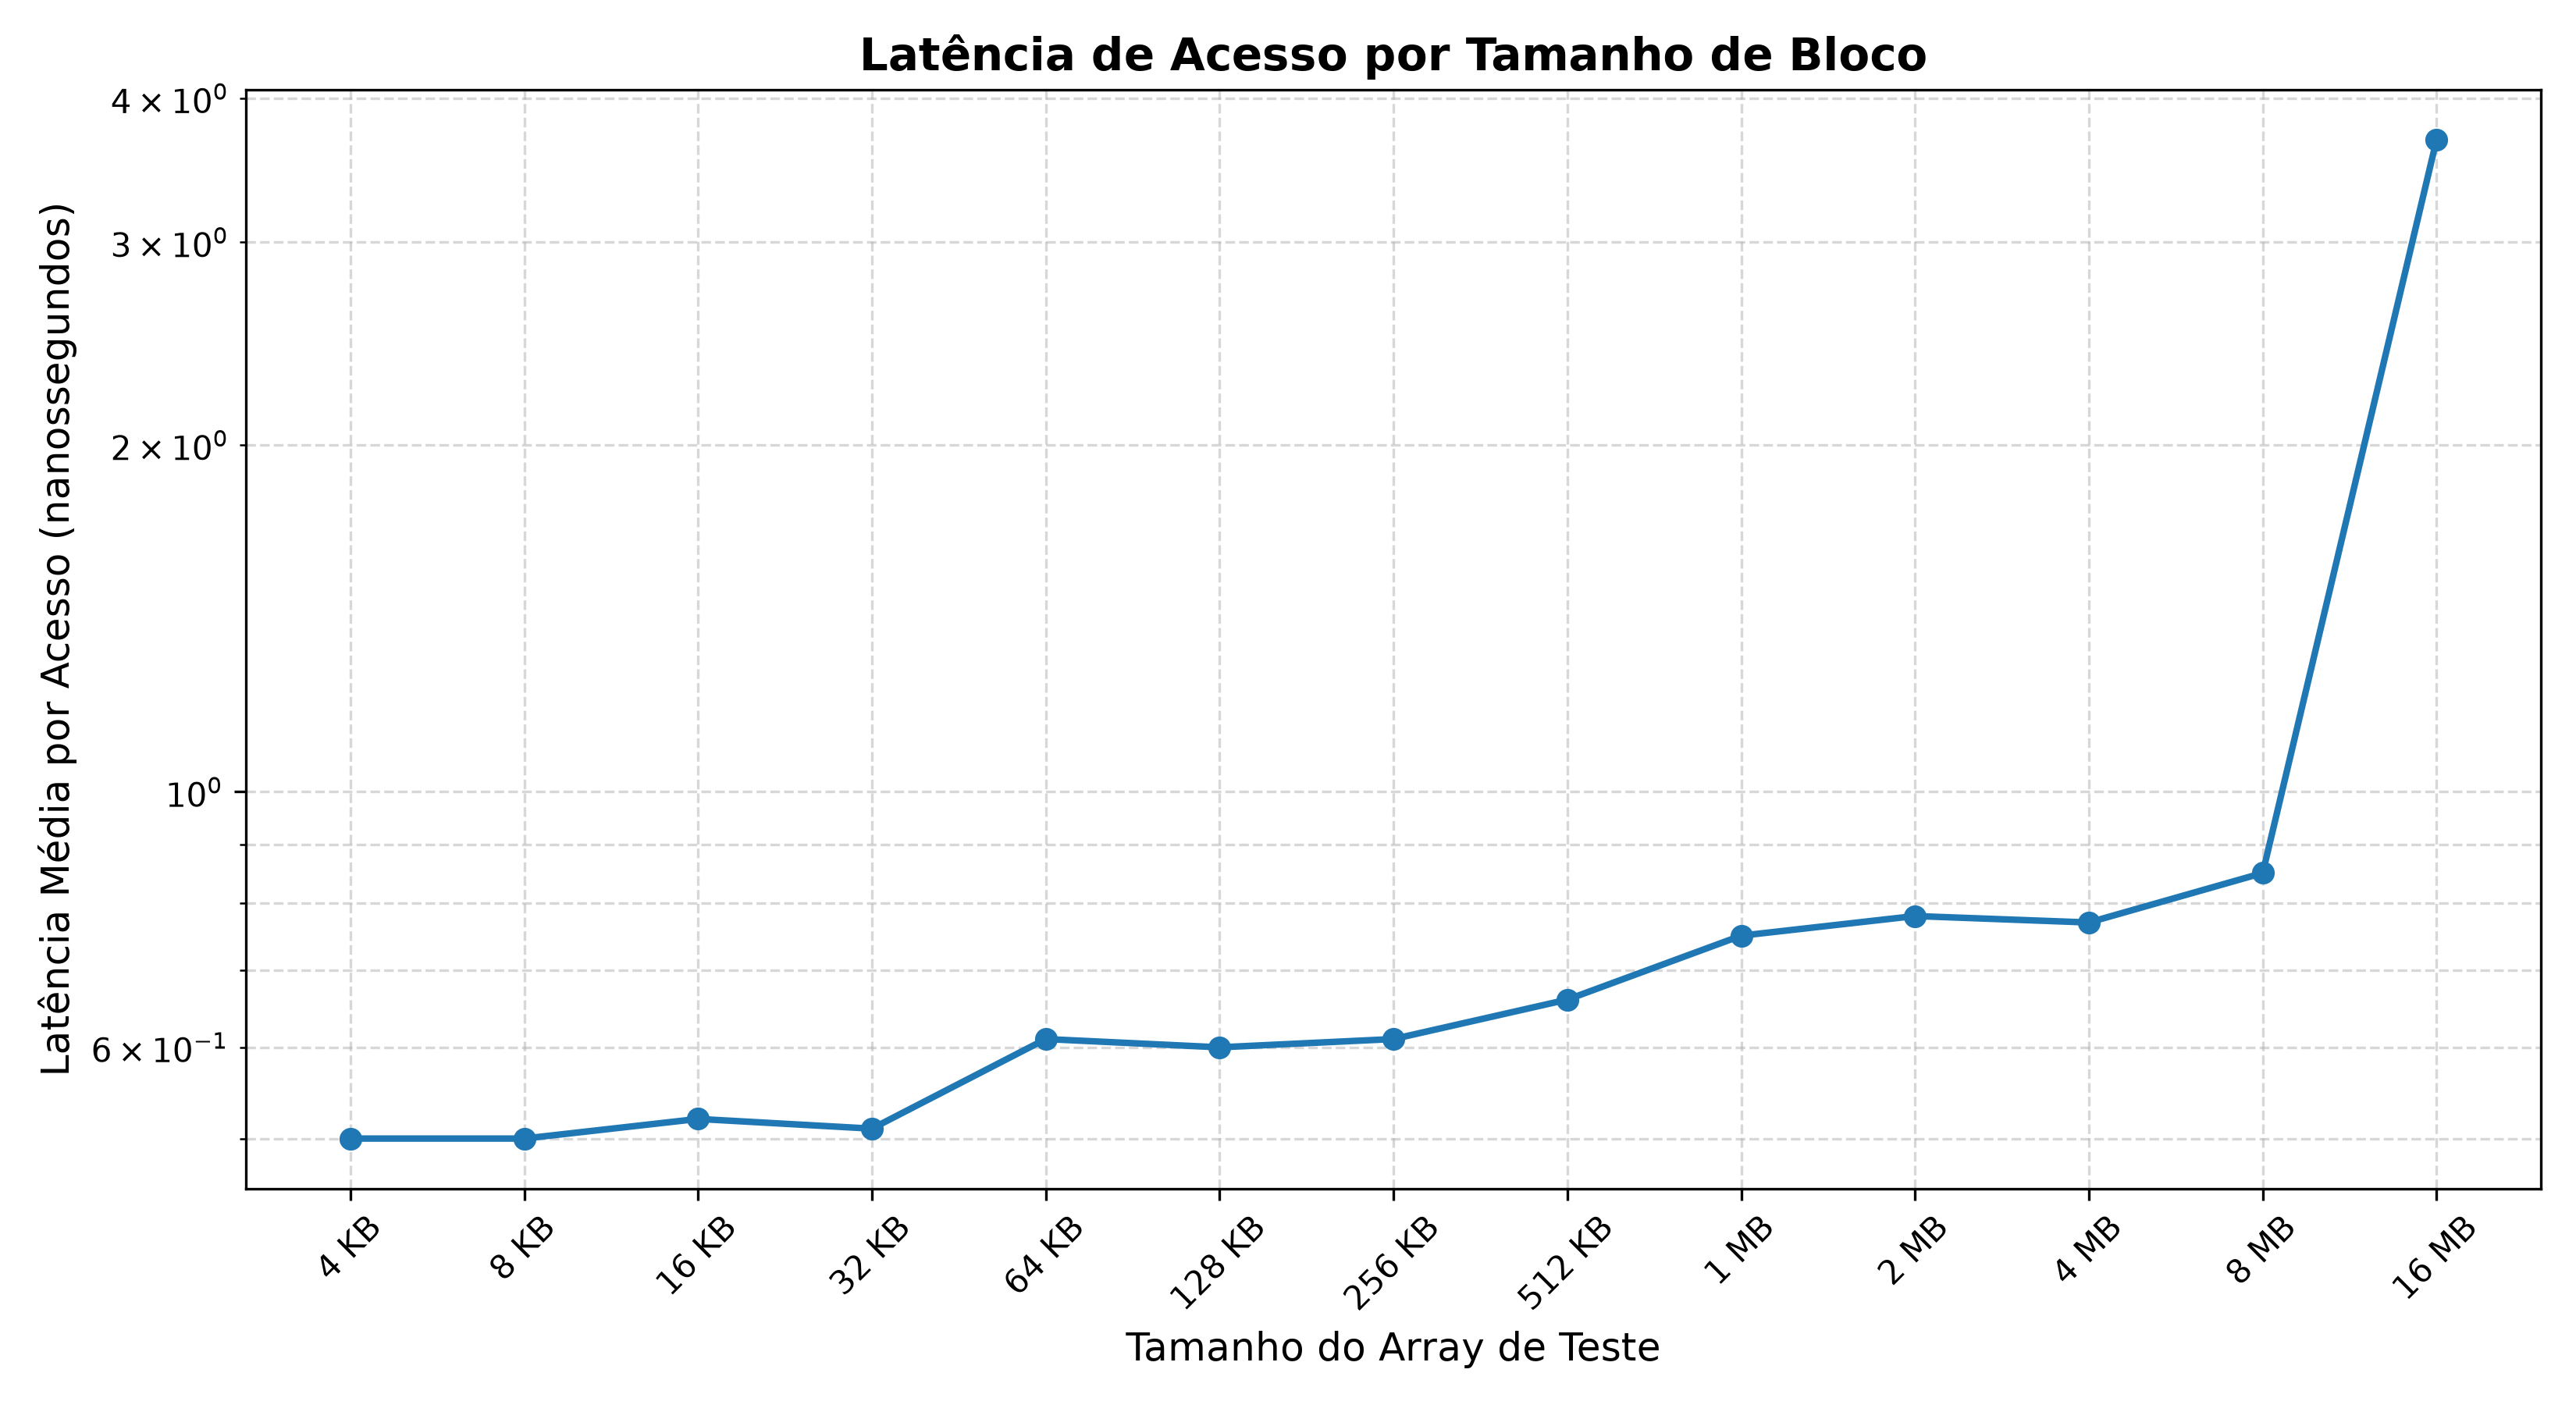
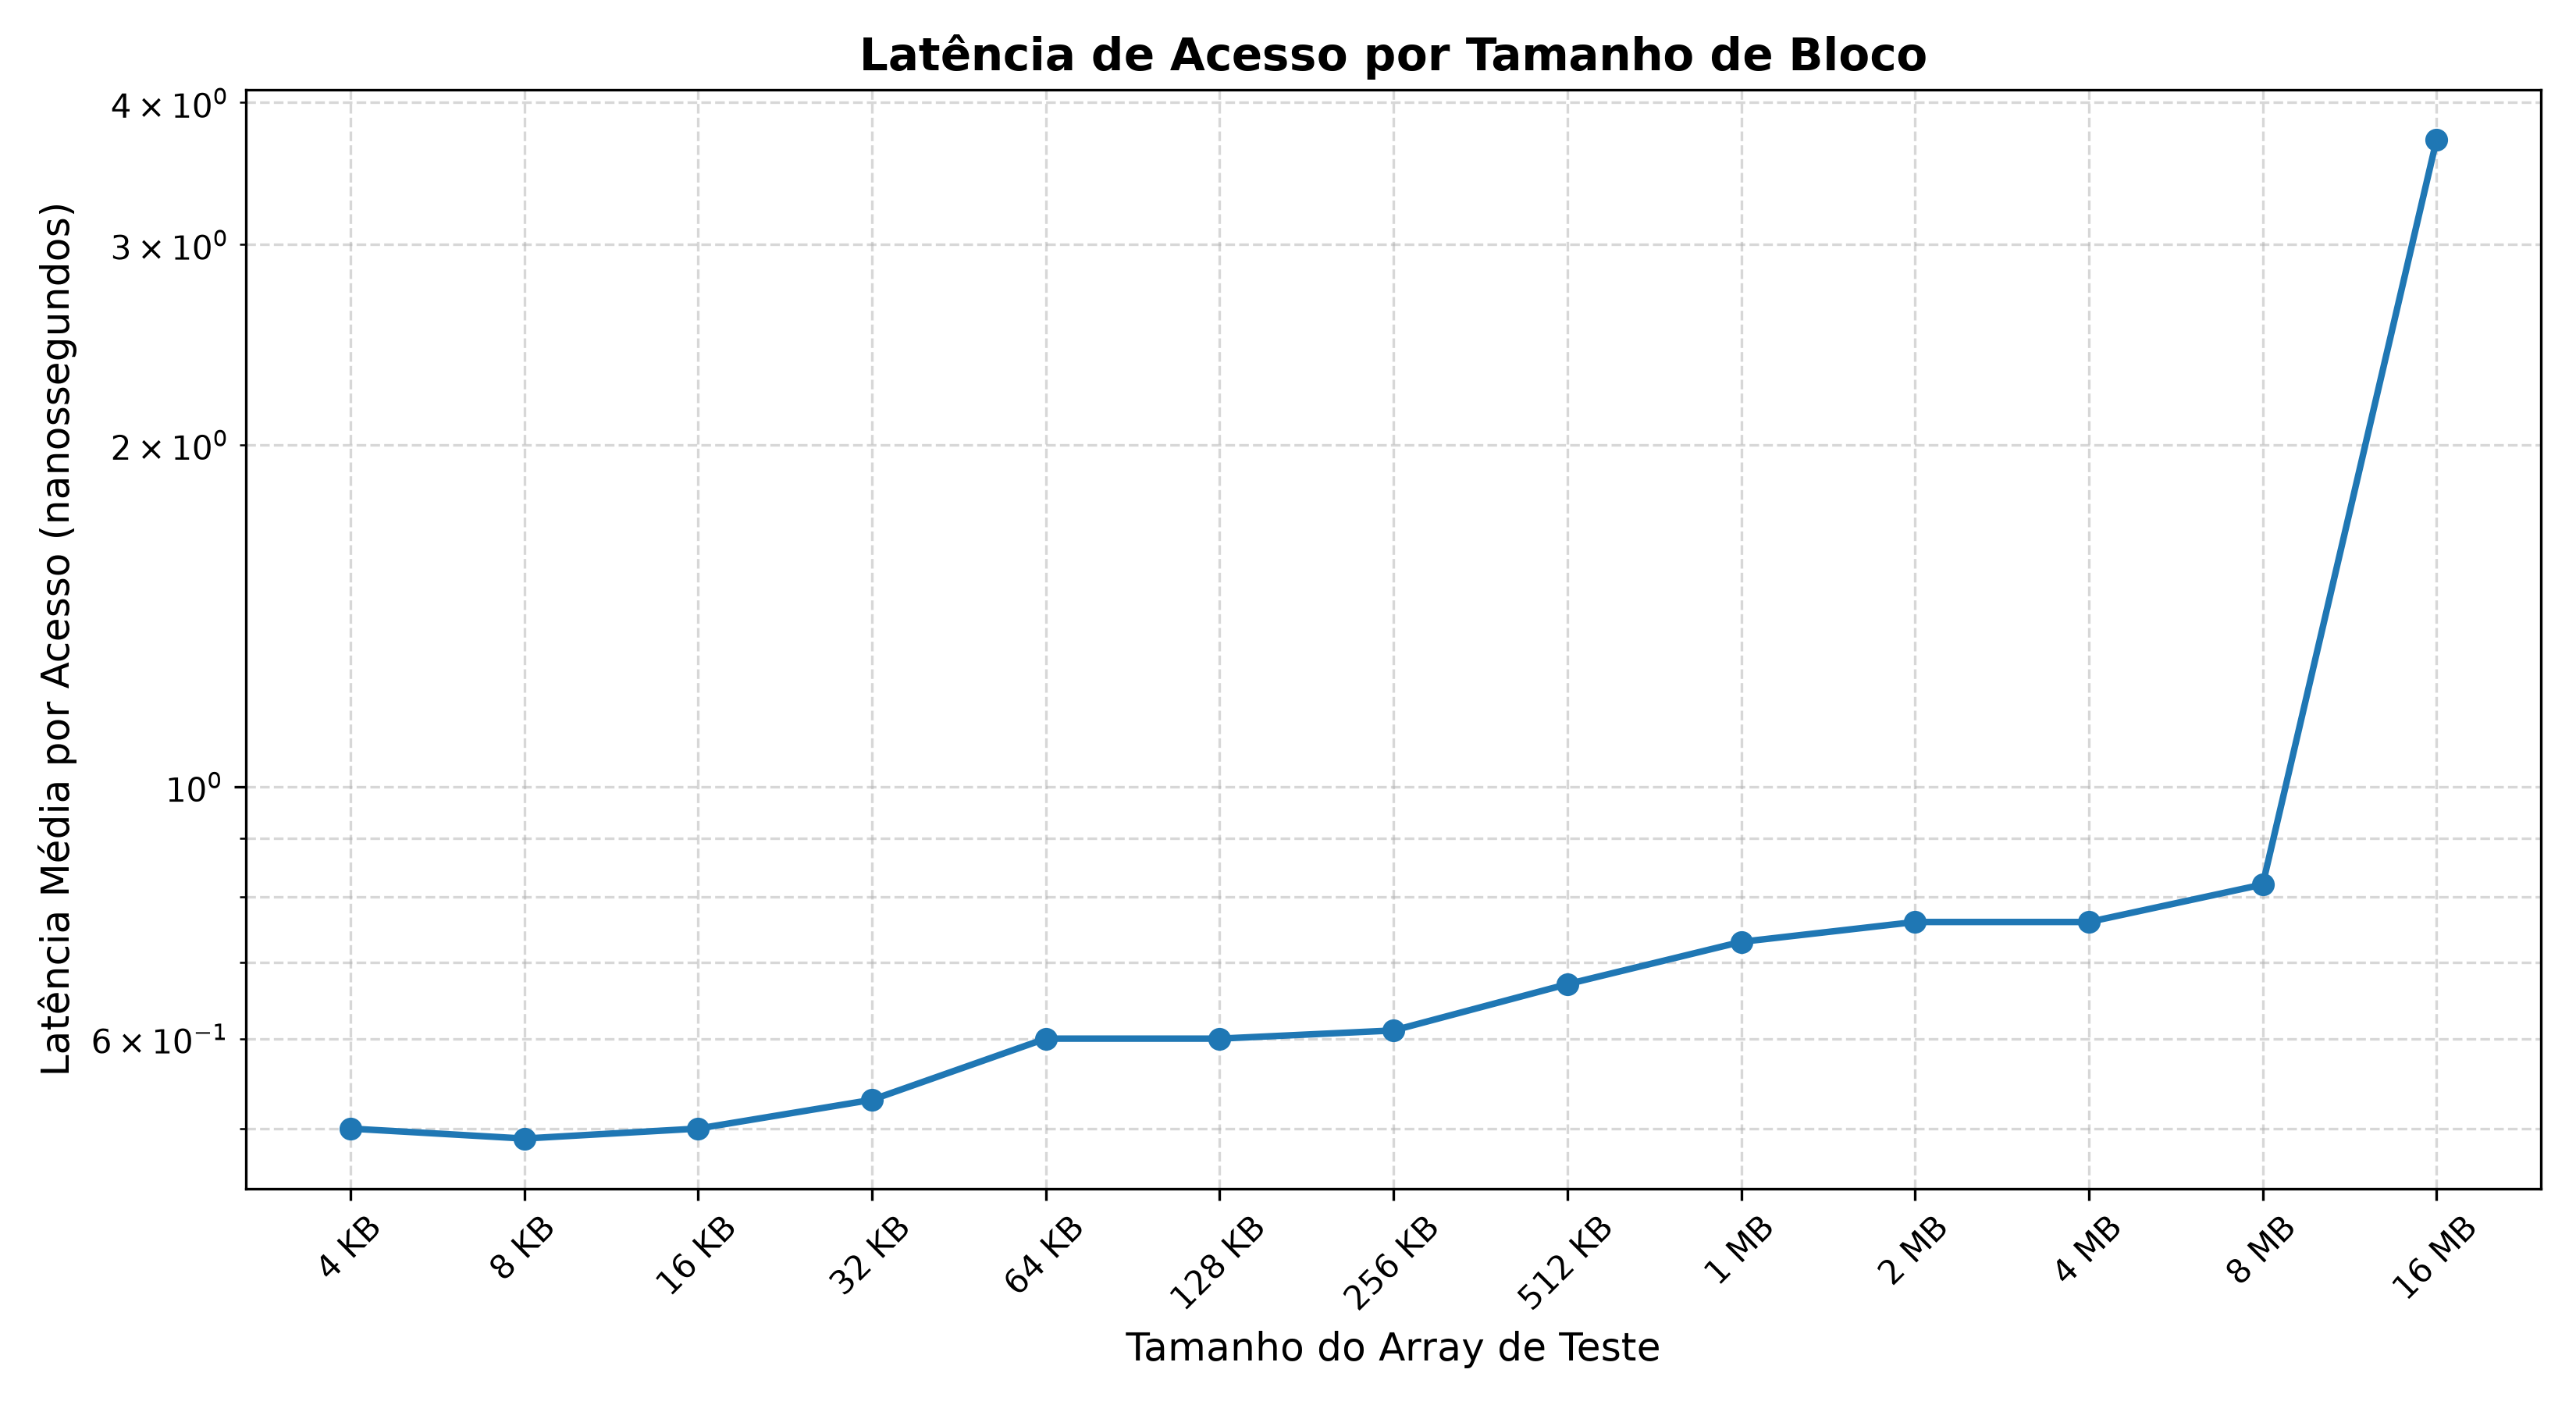
a

diff --git a/teste_3/main.c b/teste_3/main.c
@@ -14,11 +14,11 @@ int main() {
         matrix_C = malloc(sizeof(double) * MATRIX_SIZE * MATRIX_SIZE);
 
         if (!matrix_A || !matrix_B || !matrix_C) {
-                printf("Falha na alocacao de memoria.\n");
+                printf("Falha na alocação de memória.\n");
                 return 1;
         }
 
-        printf("Iniciando teste de multiplicacao de matrizes\n");
+        printf("Iniciando teste de multiplicação de matrizes:\n\n");
         printf("Tamanho da Matriz: %d x %d\n", MATRIX_SIZE, MATRIX_SIZE);
         printf("Tamanho do Bloco:  %d\n", BLOCK_SIZE);
         printf("Rodadas:           %d\n\n", NUM_ROUNDS);
@@ -27,47 +27,47 @@ int main() {
         initialize_matrix(matrix_B, MATRIX_SIZE);
 
         // Teste multiplicação convencional
-        printf("Executando Convencional\n");
+        printf("Executando Convencional:\n");
         timespec_get(&start, TIME_UTC);
         for (i = 0; i < NUM_ROUNDS; i++) 
                 multiply_conventional(matrix_C, matrix_A, matrix_B, MATRIX_SIZE);
         
         timespec_get(&end, TIME_UTC);
         time_conventional = calcular_tempo(start, end);
-        printf("Concluido em %f segundos.\n", time_conventional);
+        printf("Concluído em %f segundos.\n\n", time_conventional);
 
         // Teste multiplicação convencional otimizada
-        printf("Executando Convencional Otimizada\n");
+        printf("Executando Convencional Otimizada:\n");
         timespec_get(&start, TIME_UTC);
         for (i = 0; i < NUM_ROUNDS; i++) 
                 multiply_conventional_optimized(matrix_C, matrix_A, matrix_B, MATRIX_SIZE);
         
         timespec_get(&end, TIME_UTC);
         time_conventional_optimized = calcular_tempo(start, end);
-        printf("Concluido em %f segundos.\n", time_conventional_optimized);
+        printf("Concluído em %f segundos.\n\n", time_conventional_optimized);
 
         // Teste multiplicação em blocos
-        printf("Executando em Blocos\n");
+        printf("Executando em Blocos:\n");
         timespec_get(&start, TIME_UTC);
         for (i = 0; i < NUM_ROUNDS; i++) 
                 multiply_blocked(matrix_C, matrix_A, matrix_B, MATRIX_SIZE, BLOCK_SIZE);
         
         timespec_get(&end, TIME_UTC);
         time_blocked = calcular_tempo(start, end);
-        printf("Concluido em %f segundos.\n\n", time_blocked);
+        printf("Concluído em %f segundos.\n\n", time_blocked);
 
         // resultados
         printf("--- Resultados ---\n");
         if (time_blocked < time_conventional_optimized) {
                 speedup = time_conventional_optimized / time_blocked;
-                printf("A multiplicacao em blocos foi %.2fx mais rapida.\n", speedup);
+                printf("A multiplicação em blocos foi %.2fx mais rápida.\n", speedup);
         } else {
-                printf("Nao houve ganho de performance.\n");
+                printf("A multiplicação em blocos não superou a versão convencional otimizada.\n\n");
         }
         
         speedup_total = time_conventional / time_blocked;
-        printf("Comparado a versao inicial ingenua, "
-                "a versao em blocos foi %.2fx mais rapida.\n",
+        printf("Em relação a matriz convencional sem otimizações, "
+                "a versão em blocos foi %.2fx mais rápida.\n",
                 speedup_total);
 
         free(matrix_A);

diff --git a/teste_2/main.c b/teste_2/main.c
@@ -15,7 +15,7 @@ int main() {
 
         for (int rodada = 1; rodada <= NUM_EXECUCOES; rodada++) {
                 printf("Executando rodada %d de %d...\n", rodada, NUM_EXECUCOES);
-        // Testa arrays de 4 KB até 16 MB, dobrando o tamanho a cada execução
+                // Testa arrays de 4 KB até 16 MB, dobrando o tamanho a cada execução
                 for (size_t tam = 4 * 1024; tam <= 16 * 1024 * 1024; tam *= 2) {
                         executar_teste(tam, rodada, arquivo);
                 }

diff --git a/teste_3/matrix_mult.c b/teste_3/matrix_mult.c
@@ -10,6 +10,7 @@ void multiply_conventional(double *C, double *A, double *B, size_t n) {
                 for (j = 0; j < n; j++) {
                         // Inicializa a posição atual do resultado com zero
                         C[i * n + j] = 0.0;
+
                         // Loop interno realizando o somatório
                         for (k = 0; k < n; k++) {
                                 C[i * n + j] += A[i * n + k] * B[k * n + j];
@@ -36,7 +37,6 @@ void multiply_conventional_optimized(double *C, double *A, double *B, size_t n) 
                 }
         }
 }
-
 
 void multiply_blocked(double *C, double *A, double *B, size_t n, size_t block_size) {
         double tmpa;

diff --git a/teste_3/matrix_mult.h b/teste_3/matrix_mult.h
@@ -14,7 +14,7 @@
    o reaproveitamento dos dados já carregados na cache. O valor foi escolhido
    experimentalmente a partir dos melhores resultados observados.
 */
-#define BLOCK_SIZE 16 
+#define BLOCK_SIZE 16
 
 // Quantidade de execuções utilizadas para calcular os tempos médios.
 #define NUM_ROUNDS 5 

diff --git a/README.md b/README.md
@@ -11,7 +11,7 @@ source ~/.venvs/cache-benchmark/bin/activate
 pip install pandas matplotlib
 ```
 
-## Primeiro Teste: Inferência do Tamanho da Linha de Cache a partir da Latência de Acesso
+## Primeiro Teste: Estimativa do Tamanho da Linha de Cache a partir da Latência de Acesso
 
 ### Descrição
 
@@ -87,7 +87,7 @@ O objetivo é analisar o impacto da hierarquia de memória no tempo de execuçã
 
 ## Integrantes
 
-| Nome | GRR                    |
+| Nome | GRR |
 |--------|--------|
 | Thalísia Arianna Fernandes Fleck | GRR20256088 |
 | Davi Alves Sampaio | GRR20255653 |